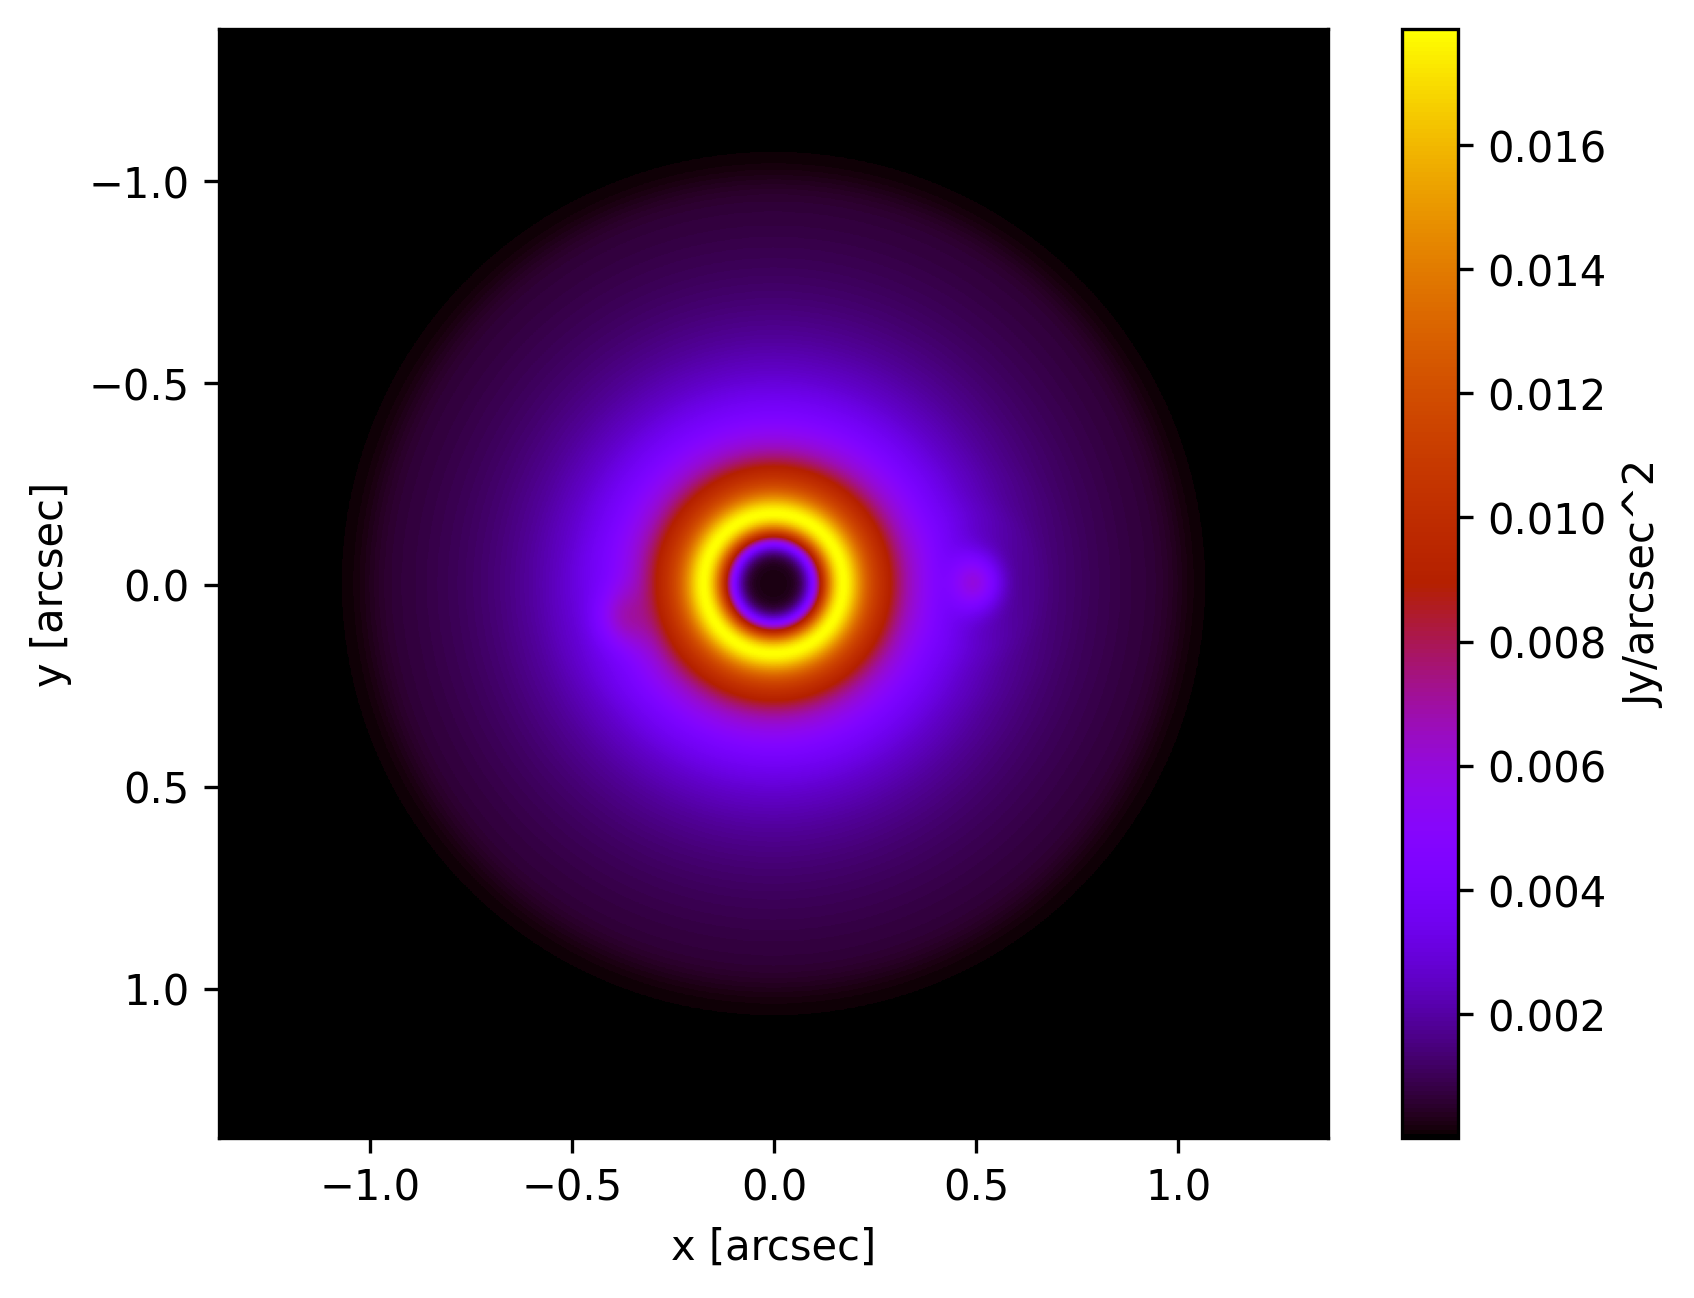
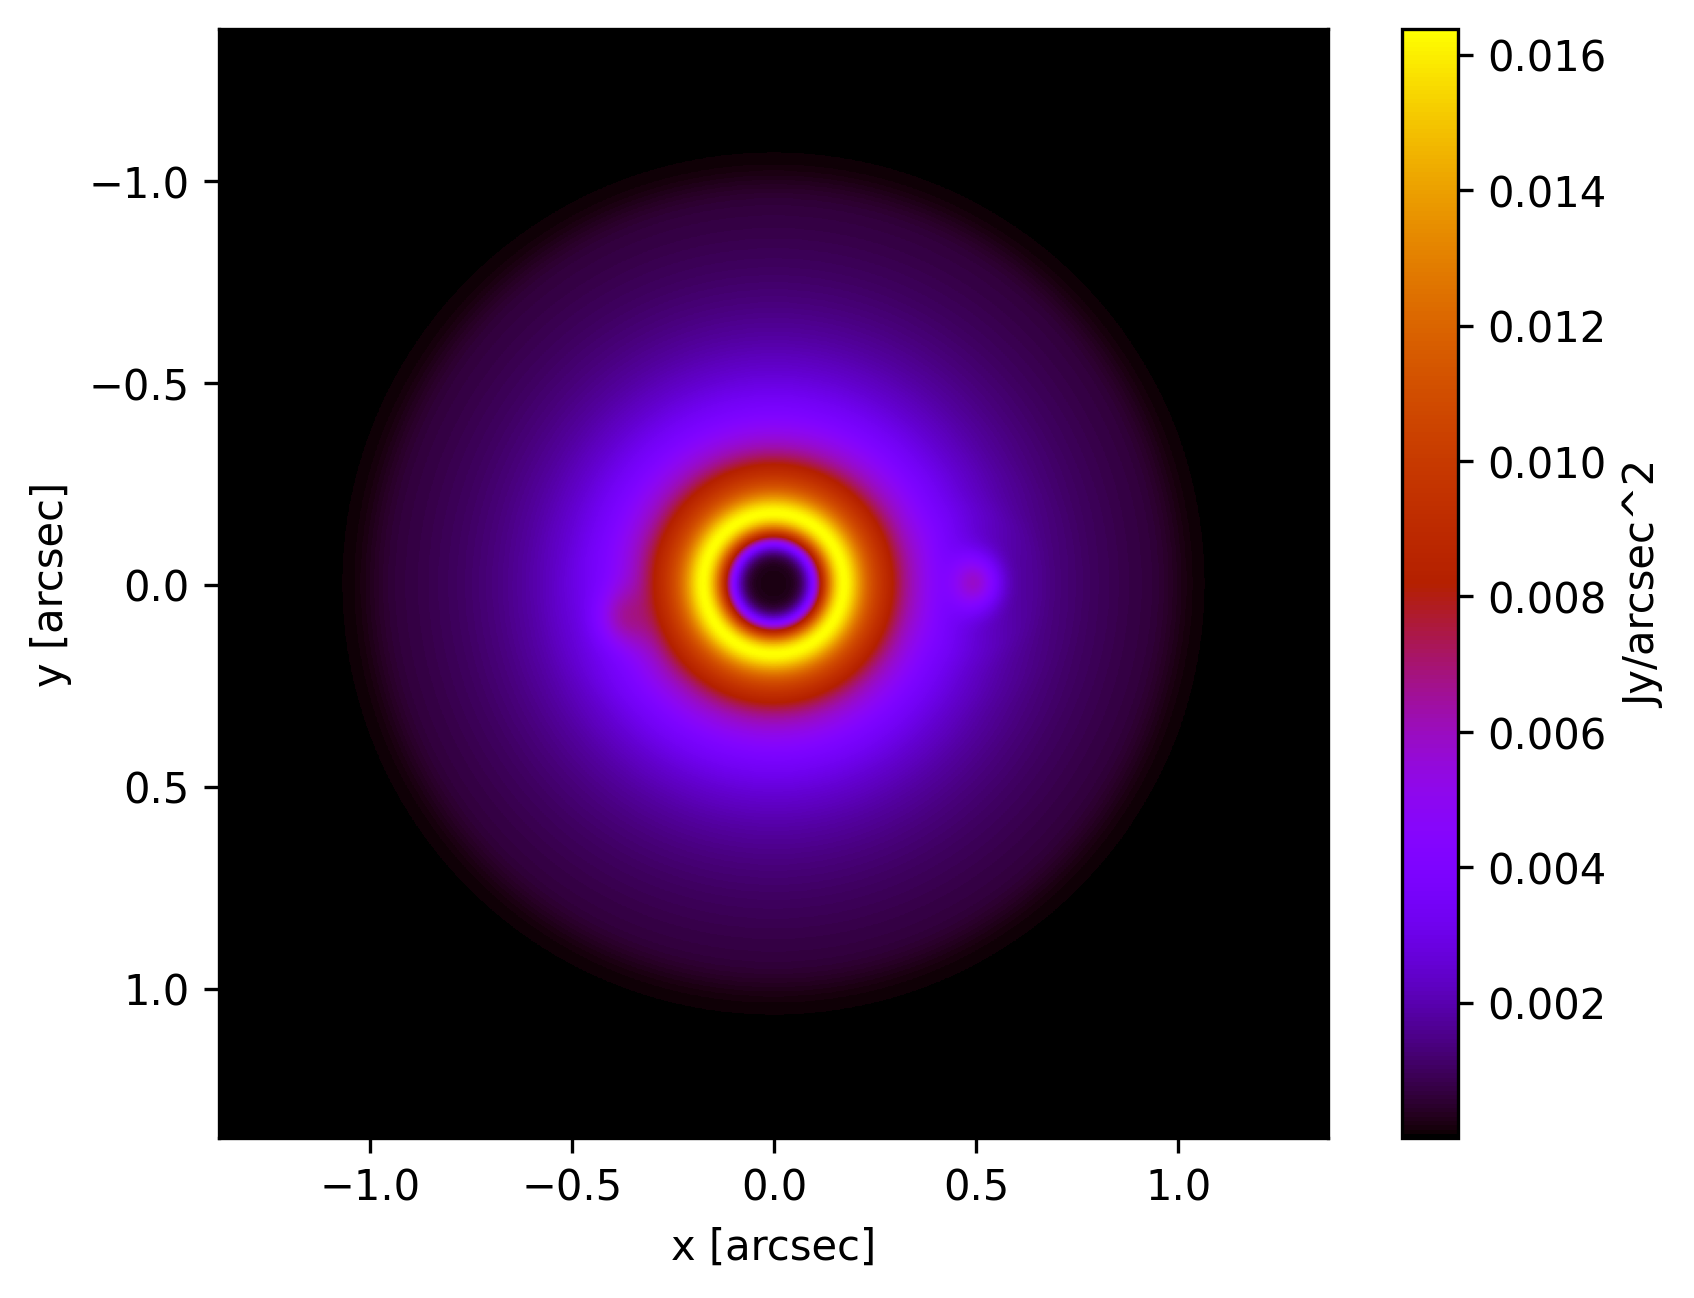
center point adj

diff --git a/toycoronagraph/psf.py b/toycoronagraph/psf.py
@@ -43,10 +43,10 @@ def psf_chunk(i, img_pixel, psf_range, pupil_grid, prop, lyot_stop, coro):
         tuple: Index and the calculated PSF chunk as a 2D numpy array.
     """
     # Calculate the x-coordinate based on the chunk index and PSF range
-    if img_pixel%2:
-        x = 2*i*psf_range / img_pixel
+    if img_pixel%2==0:
+        x = 2*(i**2+0.25)**0.5*psf_range / img_pixel
     else:
-        x = (2*i+1)*psf_range / img_pixel
+        x = 2*i*psf_range / img_pixel
 
     # Calculate the wavefront at the specified position
     wf = Wavefront(Wavefront_pos(x, 0, pupil_grid))
@@ -99,10 +99,10 @@ def psf_calculation(charge, img_pixel, psf_range, lyot_mask_size, num_cores):
     else:
         for i in range((img_pixel+1)//2):
             # Calculate the x-coordinate based on the chunk index and PSF range
-            if img_pixel%2:
-                x = 2*i*psf_range / img_pixel
+            if img_pixel%2==0:
+                x = 2*(i**2+0.25)**0.5*psf_range / img_pixel
             else:
-                x = (2*i+1)*psf_range / img_pixel
+                x = 2*i*psf_range / img_pixel
         
             # Calculate the wavefront at the specified position
             wf = Wavefront(Wavefront_pos(x, 0, pupil_grid))
@@ -145,17 +145,33 @@ def cir_psf_contrast(pre_img, planet_psfs_number, planet_angle, planet_brightnes
     iwa = cir_iwa(psfs)
     
     # Generate the chunk image along the x-axis
-    for i in range(iwa):
-        weight = pre_img[255+i][255]
-        if weight != 0:
-            chunk_img += 2*np.pi*i*weight*psfs[i]/rot_number
-                
-    for i in range(iwa, (img_pixel+1)//2):
-        weight = pre_img[255+i][255]
-        if weight != 0:
-            part_img = 2*np.pi*i*weight*psfs[i]/rot_number
-            chunk_img += part_img
-            chunk_img_iwa += part_img
+    if img_pixel%2==0:
+        current_r = 0
+        for i in range(iwa):
+            weight = pre_img[img_pixel//2+i][img_pixel//2]
+            new_r = (i**2+0.25)**0.5
+            if weight != 0:    
+                chunk_img +=  2*np.pi*new_r*(new_r-current_r)*weight*psfs[i]/rot_number
+            current_r = new_r
+        for i in range(iwa, (img_pixel+1)//2):
+            weight = pre_img[img_pixel//2+i][img_pixel//2]
+            new_r = (i**2+0.25)**0.5
+            if weight != 0:    
+                part_img = 2*np.pi*new_r*(new_r-current_r)*weight*psfs[i]/rot_number
+                chunk_img += part_img
+                chunk_img_iwa += part_img
+            current_r = new_r
+    else:
+        for i in range(iwa):
+            weight = pre_img[img_pixel//2+i][img_pixel//2]
+            if weight != 0:
+                chunk_img += 2*np.pi*i*weight*psfs[i]/rot_number
+        for i in range(iwa, (img_pixel+1)//2):
+            weight = pre_img[img_pixel//2+i][img_pixel//2]
+            if weight != 0:
+                part_img = 2*np.pi*i*weight*psfs[i]/rot_number
+                chunk_img += part_img
+                chunk_img_iwa += part_img
                 
     # Initialize the disk image
     disk_img = np.zeros([img_pixel, img_pixel])
@@ -210,10 +226,19 @@ def cir_psf(pre_img, planets_pos, planet_brightness, psf_scale, iwa_ignore, add_
     chunk_img = np.zeros([img_pixel, img_pixel])
     
     # Generate the chunk image along the x-axis
-    for i in range(iwa, (img_pixel+1)//2):
-        weight = pre_img[255+i][255]
-        if weight != 0:
-            chunk_img += 2*np.pi*i*weight*psfs[i]/rot_number
+    if img_pixel%2==0:
+        current_r = (iwa if iwa==0 else ((iwa-1)**2+0.25)**0.5)
+        for i in range(iwa, (img_pixel+1)//2):
+            weight = pre_img[img_pixel//2+i][img_pixel//2]
+            new_r = (i**2+0.25)**0.5
+            if weight != 0:
+                chunk_img += 2*np.pi*new_r*(new_r-current_r)*weight*psfs[i]/rot_number
+            current_r = new_r
+    else:
+        for i in range(iwa, (img_pixel+1)//2):
+            weight = pre_img[img_pixel//2+i][img_pixel//2]
+            if weight != 0:
+                chunk_img += 2*np.pi*i*weight*psfs[i]/rot_number
 
     # Rotate and accumulate the chunk image to create the final image
     for i in range(rot_number):
